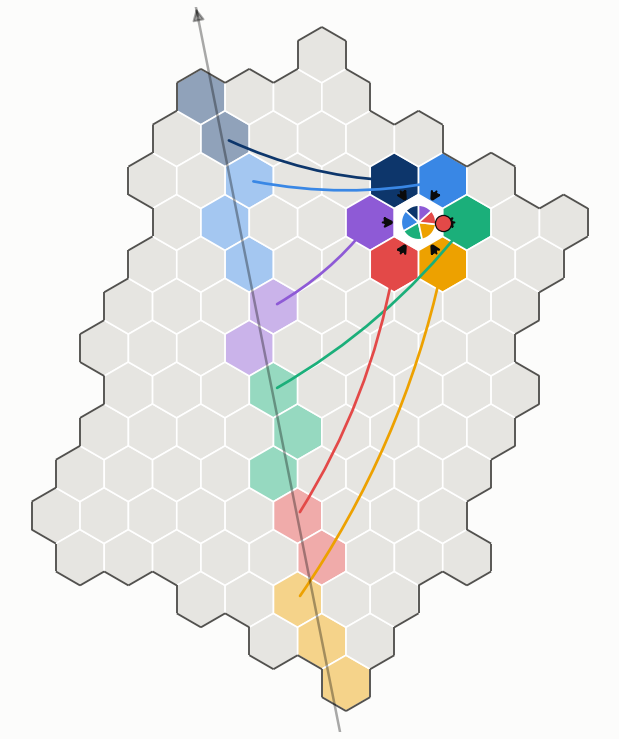
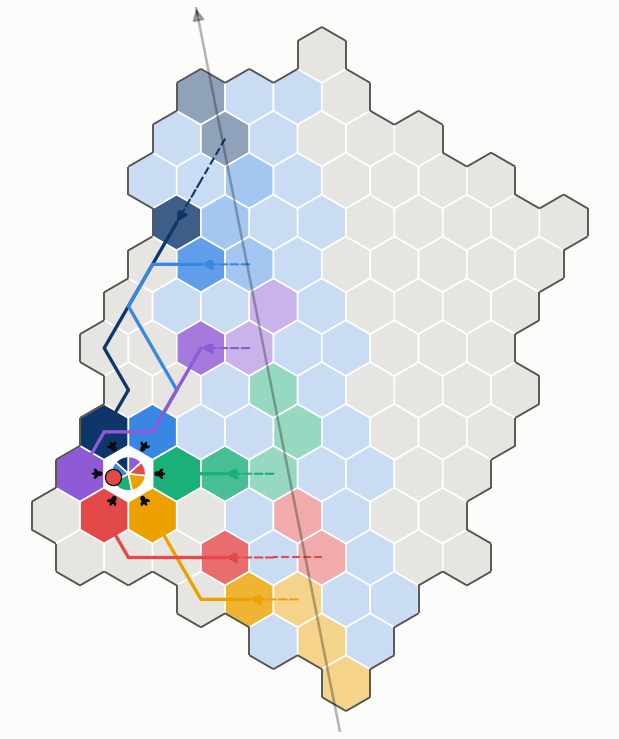
uav-coop2: River sized by width (3.5 cells -> PER 1.1 %), Axe serves a pair of Banks along cell paths, Circle fed from Banks along cell paths; CLAUDE.md §8 message 42
Claude-Session: https://claude.ai/code/session_01Anfb7cgF7DRSZmbbNnHpxR

diff --git a/uav-coop2/tools/concept_cells.py b/uav-coop2/tools/concept_cells.py
@@ -1,21 +1,27 @@
-"""Concept sketches at cell level, no text: River, Axe, Banks, critical cells, Circle.
+"""Concept sketches at cell level, no text: River, Axe, Banks, Axe -> Banks, critical cells, Circle.
 
     python3 tools/concept_cells.py --deploy ../uav-coop/docs/data --data docs/data --figs docs/figures \
-        --path docs/data/path-a180.csv --banks 0.8,0.2,0.05
+        --path docs/data/path-a180.csv --width 3.5
 
 Everything here is what the BS can compute before the flight:
   PER of a cell  PER at the closest approach of the track to the cell centre, from the
                  measured PER-vs-distance curve (DATA/per-distance.csv, ns-3 pass bitmaps)
-  River          cells with PER <= threshold (one panel per --banks value)
+  River          cells with PER <= the threshold that makes it --width cells across
+                 (threshold = PER at width/2 cell widths from the track)
   Axe            cells the track crosses; each holds the stretch of the stream sent above it
   Banks          River cells next to a non-River cell, one colour per side of the track
+  Axe -> Banks   each Axe cell serves one Bank cell on each side (the nearest within
+                 ceil(width) cells, along a cell path inside the River; none where the River
+                 runs off the cluster), topping up the little the Banks lack
   critical       the CH's cell, CLs far above the rest (> mean + 2 sd), and CLs that are
                  the best within two rings and above mean + 1 sd
   Circle         the 6 neighbours of a critical cell; the Axe is cut into 6 consecutive
                  stretches, one per neighbour (further along the flight -> further along the
-                 Axe); each fetches its stretch ahead and hands it over on request
+                 Axe); each neighbour fetches its stretch from a Bank on its side along a cell
+                 path, and hands it over on request
 """
 import argparse, csv, math, os
+from collections import deque
 
 import matplotlib
 matplotlib.use("Agg")
@@ -61,15 +67,18 @@ def ring(h, k):
     return out
 
 
+def hexdist(a, b):
+    return (abs(a[0] - b[0]) + abs(a[1] - b[1]) + abs(a[0] + a[1] - b[0] - b[1])) // 2
+
+
 def main():
     ap = argparse.ArgumentParser()
     ap.add_argument("--deploy", required=True)
     ap.add_argument("--data", required=True)
     ap.add_argument("--figs", required=True)
     ap.add_argument("--path", required=True)
-    ap.add_argument("--banks", default="0.8,0.2,0.05", help="PER at the Banks, one panel each")
+    ap.add_argument("--width", type=float, default=3.5, help="River width across the track, cells")
     a = ap.parse_args()
-    ths = [float(v) for v in a.banks.split(",")]
 
     lat = list(csv.DictReader(open(os.path.join(a.deploy, "deploy-lattice.csv"))))
     c = {(int(x["q"]), int(x["r"])): (float(x["cx"]), float(x["cy"])) for x in lat}
@@ -86,22 +95,53 @@ def main():
     curve = list(csv.DictReader(open(os.path.join(a.data, "per-distance.csv"))))
     cd = np.array([(float(r["dLoM"]) + float(r["dHiM"])) / 2 for r in curve])
     cp = np.array([float(r["per"]) for r in curve])
+    th = float(np.interp(a.width / 2 * w, cd, cp))
 
     C = np.array([c[h] for h in sel])
     dist = np.sqrt(((C[:, None, :] - P[None, :, :]) ** 2).sum(-1))
     near = dist.argmin(1)
     per = dict(zip(sel, np.interp(dist.min(1), cd, cp)))
+    along = dict(zip(sel, near.tolist()))
     k = np.clip(near, 0, len(P) - 2)
     t = P[k + 1] - P[k]
     cross = t[:, 0] * (C[:, 1] - P[k, 1]) - t[:, 1] * (C[:, 0] - P[k, 0])
     side = dict(zip(sel, (cross > 0).astype(int).tolist()))
-    # Axe: cells the track crosses, in the order the stream reaches them
+    river = {h for h in sel if per[h] <= th}
     axe = []
     for x, y in P:
         h = hex_of(x, y, R)
         if h in S and h not in axe:
             axe.append(h)
+    assert set(axe) <= river
     rank = {h: i / max(1, len(axe) - 1) for i, h in enumerate(axe)}
+    banks = {h for h in river if h not in rank and
+             any((h[0] + dq, h[1] + dr) in S and (h[0] + dq, h[1] + dr) not in river for dq, dr in NB)}
+
+    def cellpath(src, dst, allowed):
+        """Shortest cell path src -> dst through allowed cells, the straightest among equals."""
+        prev, seen, dq = {}, {src}, deque([src])
+        while dq:
+            u = dq.popleft()
+            if u == dst:
+                break
+            for g in sorted(((u[0] + a_, u[1] + b_) for a_, b_ in NB),
+                            key=lambda g: math.dist(c.get(g, (1e9, 1e9)), c[dst])):
+                if g in allowed and g not in seen:
+                    seen.add(g); prev[g] = u; dq.append(g)
+        assert dst in seen, (src, dst)
+        out = [dst]
+        while out[-1] != src:
+            out.append(prev[out[-1]])
+        return out[::-1]
+
+    # Axe -> Banks: each Axe cell serves the nearest Bank on each side, inside the River
+    pair = {}
+    for g in axe:
+        for s_ in (0, 1):
+            cand = [b for b in banks if side[b] == s_ and hexdist(g, b) <= math.ceil(a.width)]
+            if cand:
+                b = min(cand, key=lambda b: (hexdist(g, b), abs(along[b] - along[g])))
+                pair[(g, s_)] = (b, cellpath(g, b, river))
     # critical cells
     sc = {(int(r["q"]), int(r["r"])): float(r["score"]) for r in nodes if r["isCL"] == "1"}
     m, s = np.mean(list(sc.values())), np.std(list(sc.values()))
@@ -128,83 +168,105 @@ def main():
         for sp in ax.spines.values():
             sp.set_visible(False)
 
+    def route(ax, cells, colour, lw=1.6, ls="-"):
+        pts = np.array([c[h] for h in cells])
+        ax.plot(pts[:-1, 0], pts[:-1, 1], color=colour, lw=lw, ls=ls, zorder=5, solid_capstyle="round")
+        ax.add_patch(FancyArrowPatch(pts[-2], pts[-1], arrowstyle="-|>", mutation_scale=11, color=colour, lw=lw,
+                                     ls=ls, shrinkA=0, shrinkB=R * .25, zorder=5))
+
     def save(fig, name):
         out = os.path.join(a.figs, name)
         fig.savefig(out, facecolor=SURF, bbox_inches="tight", pad_inches=.05)
         plt.close(fig)
         print(f"  {out}")
 
-    river = {th: {h for h in sel if per[h] <= th} for th in ths}
+    def one():
+        return plt.subplots(figsize=(5.2, 6.6), dpi=150, facecolor=SURF)
+
     # 1. River: shade = PER (darker = fewer losses)
-    fig, axs = plt.subplots(1, len(ths), figsize=(5.2 * len(ths), 6.6), dpi=150, facecolor=SURF)
-    for ax, th in zip(np.atleast_1d(axs), ths):
-        frame(ax, {h: RAMP(1 - per[h] / th) if h in river[th] else GREY for h in sel})
+    fig, ax = one()
+    frame(ax, {h: RAMP(1 - per[h] / th) if h in river else GREY for h in sel})
     save(fig, "concept-river.png")
     # 2. Axe: each cell holds the stretch of the stream sent above it (colour = order)
-    fig, ax = plt.subplots(figsize=(5.2, 6.6), dpi=150, facecolor=SURF)
-    frame(ax, {h: SEQ(rank[h]) if h in rank else GREY for h in sel}, .5)
+    fig, ax = one()
+    frame(ax, {h: SEQ(rank[h]) if h in rank else (FAINT if h in river else GREY) for h in sel}, .5)
     save(fig, "concept-axe.png")
     # 3. Banks
-    fig, axs = plt.subplots(1, len(ths), figsize=(5.2 * len(ths), 6.6), dpi=150, facecolor=SURF)
-    banks = {}
-    for ax, th in zip(np.atleast_1d(axs), ths):
-        rv = river[th]
-        banks[th] = {h for h in rv if any((h[0] + dq, h[1] + dr) in S and (h[0] + dq, h[1] + dr) not in rv
-                                          for dq, dr in NB)}
-        frame(ax, {h: BANK[side[h]] if h in banks[th] else (FAINT if h in rv else GREY) for h in sel}, .5)
+    fig, ax = one()
+    frame(ax, {h: BANK[side[h]] if h in banks else (FAINT if h in river else GREY) for h in sel}, .5)
     save(fig, "concept-banks.png")
-    # 4. critical cells, each fed from its nearest Axe cell
-    fig, ax = plt.subplots(figsize=(5.2, 6.6), dpi=150, facecolor=SURF)
-    frame(ax, {h: "#f6c3c3" if h in crit else (FAINT if h in rank else GREY) for h in sel}, .4)
+    # 4. Axe -> Banks: one pair per Axe cell, along cell paths (colour = the Axe cell's stretch)
+    fig, ax = one()
+    col = {h: GREY for h in sel}
+    col.update({h: FAINT for h in river})
+    col.update({h: matplotlib.colors.to_rgba(BANK[side[h]], .55) for h in banks})
+    col.update({h: SEQ(rank[h]) for h in axe})
+    frame(ax, col, .3)
+    for (g, s_), (b, cells) in pair.items():
+        if len(cells) > 1:
+            route(ax, cells, SEQ(rank[g]), 1.4)
+    save(fig, "concept-axe-banks.png")
+    # 5. critical cells, each fed from its nearest Bank along a cell path
+    fig, ax = one()
+    frame(ax, {h: "#f6c3c3" if h in crit else (matplotlib.colors.to_rgba(BANK[side[h]], .55) if h in banks
+                                                else (FAINT if h in river else GREY)) for h in sel}, .3)
     for h in crit:
-        src = min(axe, key=lambda g: math.dist(c[g], c[h]))
-        if src != h:
-            ax.add_patch(FancyArrowPatch(c[src], clpos[h], arrowstyle="-|>", mutation_scale=13, color="#3987e5",
-                                         lw=1.5, connectionstyle="arc3,rad=.12", zorder=5))
+        if h not in river:
+            b = min(banks, key=lambda b: (hexdist(b, h), math.dist(c[b], c[h])))
+            route(ax, cellpath(b, h, (S - river) | {b}), "#3987e5")
         ax.scatter(*clpos[h], s=90 if h == chc else 55, marker="*" if h == chc else "o", color=CRIT,
                    edgecolors=INK, lw=.6, zorder=7)
     save(fig, "concept-critical.png")
-    # 5. Circle around the critical cell farthest from the Axe with all 6 neighbours inside
-    cand = [h for h in crit if h not in rank and all(g in S for g in ring(h, 1))]
+    # 6. Circle around the critical cell farthest from the River with all 6 neighbours inside
+    cand = [h for h in crit if h not in river and all(g in S and g not in river for g in ring(h, 1))]
     if not cand:
-        cand = [h for h in sel if h not in rank and all(g in S for g in ring(h, 1))]
-    cc = max(cand, key=lambda h: min(math.dist(c[h], c[g]) for g in axe))
+        cand = [h for h in sel if h not in river and all(g in S and g not in river for g in ring(h, 1))]
+    cc = max(cand, key=lambda h: min(hexdist(h, g) for g in river))
     circ = ring(cc, 1)
-    # balanced: the Axe cut into 6 consecutive stretches; the neighbour further along the
-    # flight direction takes the stretch further along
     u = P[-1] - P[0]
     order = sorted(range(6), key=lambda j: np.dot(np.array(c[circ[j]]), u))
     owner = {g: order[min(5, i * 6 // len(axe))] for i, g in enumerate(axe)}
-    fig, ax = plt.subplots(figsize=(5.2, 6.6), dpi=150, facecolor=SURF)
+    near_side = side[min(banks, key=lambda b: hexdist(b, cc))]
+    fig, ax = one()
     col = {h: GREY for h in sel}
+    col.update({h: FAINT for h in river})
     col.update({g: matplotlib.colors.to_rgba(CAT[owner[g]], .45) for g in axe})
     col.update({h: CAT[j] for j, h in enumerate(circ)})
     col[cc] = "#ffffff"
-    frame(ax, col, .35)
-    share = [sum(1 for g in axe if owner[g] == j) for j in range(6)]
+    used = {}
+    for j, h in enumerate(circ):
+        mine = [g for g in axe if owner[g] == j]
+        if not mine:
+            continue
+        # the Bank on the Circle's side that this stretch's Axe cells serve, nearest to h
+        b = min({pair[(g, near_side)][0] for g in mine if (g, near_side) in pair},
+                key=lambda b: (hexdist(b, h), math.dist(c[b], c[h])))
+        used[j] = (mine, b)
+        col[b] = matplotlib.colors.to_rgba(CAT[j], .8)
+    frame(ax, col, .3)
+    share = [len(used[j][0]) if j in used else 0 for j in range(6)]
     a0 = 90.0
     for j in range(6):
         if share[j]:
             a1 = a0 + 360 * share[j] / len(axe)
             ax.add_patch(Wedge(c[cc], R * .62, a0, a1, facecolor=CAT[j], edgecolor="#ffffff", lw=.8, zorder=4))
             a0 = a1
-    for j, h in enumerate(circ):
-        if not share[j]:
-            continue
-        g = min((g for g in axe if owner[g] == j), key=lambda g: math.dist(c[g], c[h]))
-        ax.add_patch(FancyArrowPatch(c[g], c[h], arrowstyle="-|>", mutation_scale=11, color=CAT[j], lw=1.3,
-                                     connectionstyle="arc3,rad=.1", zorder=5))
-        v = np.array(c[cc]) - np.array(c[h])
+    for j, (mine, b) in used.items():
+        g = min(mine, key=lambda g: hexdist(g, b))
+        if g != b:
+            route(ax, pair[(g, near_side)][1], CAT[j], 1.0, "--")
+        route(ax, cellpath(b, circ[j], (S - river - {cc}) | {b}), CAT[j], 1.6)
+        v = np.array(c[cc]) - np.array(c[circ[j]])
         v /= np.linalg.norm(v)
-        ax.add_patch(FancyArrowPatch(np.array(c[h]) + v * R * .3, np.array(c[cc]) - v * R * .68,
-                                     arrowstyle="-|>", mutation_scale=10, color=INK, lw=1, ls="--", zorder=5))
-    ax.scatter(*clpos[cc], s=60, color=CRIT, edgecolors=INK, lw=.6, zorder=7)
+        ax.add_patch(FancyArrowPatch(np.array(c[circ[j]]) + v * R * .3, np.array(c[cc]) - v * R * .68,
+                                     arrowstyle="-|>", mutation_scale=10, color=INK, lw=1, ls=":", zorder=5))
+    ax.scatter(*clpos.get(cc, c[cc]), s=60, color=CRIT, edgecolors=INK, lw=.6, zorder=7)
     save(fig, "concept-circle.png")
-    print(f"cells {len(sel)}, Axe {len(axe)}, critical {sorted(crit)} (CH {chc}), circle around {cc}, "
-          f"shares {share}")
-    for th in ths:
-        print(f"  PER <= {th}: River {len(river[th])} cells, Banks {len(banks[th])} "
-              f"({sum(side[h] for h in banks[th])} / {sum(not side[h] for h in banks[th])})")
+    across = len(river) / max(1, len(axe))
+    print(f"width {a.width} cells -> PER threshold {th:.4f} ({a.width / 2 * w:.0f} m); River {len(river)} cells "
+          f"({across:.1f} per Axe cell), Axe {len(axe)}, Banks {len(banks)} "
+          f"({sum(side[h] for h in banks)} / {sum(1 - side[h] for h in banks)}), pairs {len(pair)}")
+    print(f"critical {sorted(crit)} (CH {chc}); circle around {cc}, shares {share}")
 
 
 if __name__ == "__main__":

diff --git a/CLAUDE.md b/CLAUDE.md
@@ -683,6 +683,18 @@ River, Axe và Banks đều tính theo đơn vị cell nhé
 thử mô tả lại bằng hình với PER ở Banks khoảng 80% và đường bay tương đối thẳng nhé, từ giờ ta sẽ xét đến các đường bay tương đối đẹp trước
 ```
 
+*42. 2026-10-09 · uav-coop2 · đính chính: River rộng 3–4 cell (ngưỡng PER theo tham số); Circle lấy từ Bank; mỗi Axe chọn cặp Bank và cell path; Circle cũng theo cell path*
+
+```text
+tôi sẽ đính chính lại, 
+
+ngưỡng PER cho river sẽ điều chỉnh theo tham số sao cho độ rộng của sông cỡ 3-4 cell chiều ngang để đảm bảo cơ chế lan truyền tôi sắp nói sau đây.
+
+circle sẽ lấy data từ node Bank chứ không phải trực tiếp từ Axe, và Axe sẽ bảm bảo bank có đủ dữ liệu vì ngay từ đầu bank chỉ còn thiếu một chút thôi. 
+Mỗi cell Axe chọn it nhất 1 cặp Banks và đường đi (cell paths) tương ứng để phục vụ (hoặc có thể được BS sắp xếp từ trước)
+circle cell cũng cần được phục vụ theo cell path chứ không được gửi lung tung
+```
+
 ---
 
 **These guidelines are working if:** fewer unnecessary changes in diffs, fewer rewrites due to overcomplication, and clarifying questions come before implementation rather than after mistakes.
